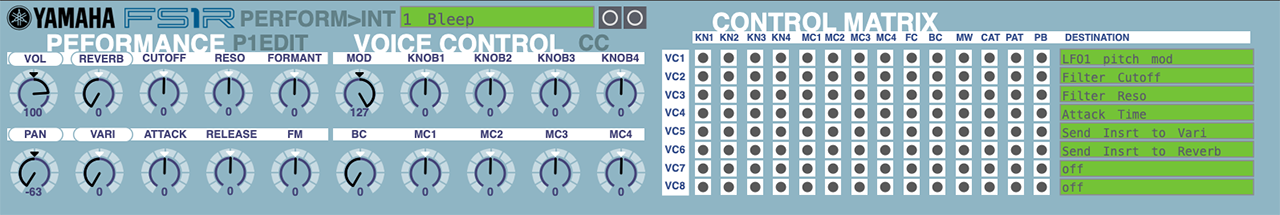
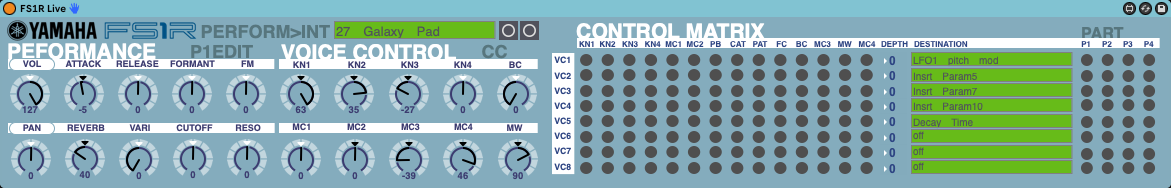
Updated Documentation

diff --git a/README.md b/README.md
@@ -1,23 +1,26 @@
-# FS1Rlive
+# FS1R Live
 ![FS1R Live](./images/fs1r.png "FS1R Live")
 A Max for Live Device for controlling a Yamaha FS1R Performance.  Uses sysex to sync device parameters.
 
 ## SETUP
 ### FS1R
-Your FS1R should be in Performance Play mode in the Internal Bank.  UTIL -> SYSTEM -> MIDI -> RcvBulkDump=off
+Your FS1R should be in Performance Play mode in the Internal Bank and make sure this you have this setting :
+ `UTIL -> SYSTEM -> MIDI -> RcvBulkDump=off`
 ### Ableton Live
 MIDI Track with External Instrument Device
 
 ## USAGE
 ### Program
-Currently the Program Menu is hardcoded in the menu device.  It matches my Internal Bank, you can change it by editing the menu. It is still usable however, it sends a Program Change so you can select your performace with this. 
+Currently the Program Menu is hardcoded in the menu device.  It matches my Internal Bank, you can change it by editing the menu. Just swap out your names, but be sure each name has quotes. Even with the wrong names is still usable however, as it just sends a Program Change number so you can select your performace with this. 
 ### Sysex
 You can receive parameters from the FS1R after selecting a program.\
 ![MIDI I/O](./images/midiio.png "MIDI I/O")\
-1st make sure your midi is routed correctly on the track (make sure to switch the monitor back to AUTO after) and then click the button to the right of the Program Name.  Your GUI should update.
-
-### Control
-For now the Performance and Voice Control sections are active.  The Control Matrix recieves and displays program data so you know where the KNOBs and MCs are mapped, but currently does not support sending the data so editing this section will do absolutely nothing on the FS1R
-
+1st make sure your midi is routed correctly on the track (make sure to switch the monitor back to AUTO after) and then click the button to the right of the Program Name.  Your GUI should update. Go back to Auto when it's loaded.
+### Permormance Edit
+This section contains the default MIDI CC avaiable for the Performance.  These work on the Performance Part 1.
+### Voice Control
+This section contains the assignable controlers.  You can see what is being controled (as well as change it) in the Control Matrix section
+### Control Matrix
+The Control Matrix now also recieves the Depth parameter and the Part selection.  Also, you can now edit the F1SR through this GUI.  All of these parameters get sent via sysex. Note you will have to store the patch directly on your F1SR for now.
 
 More to come...
